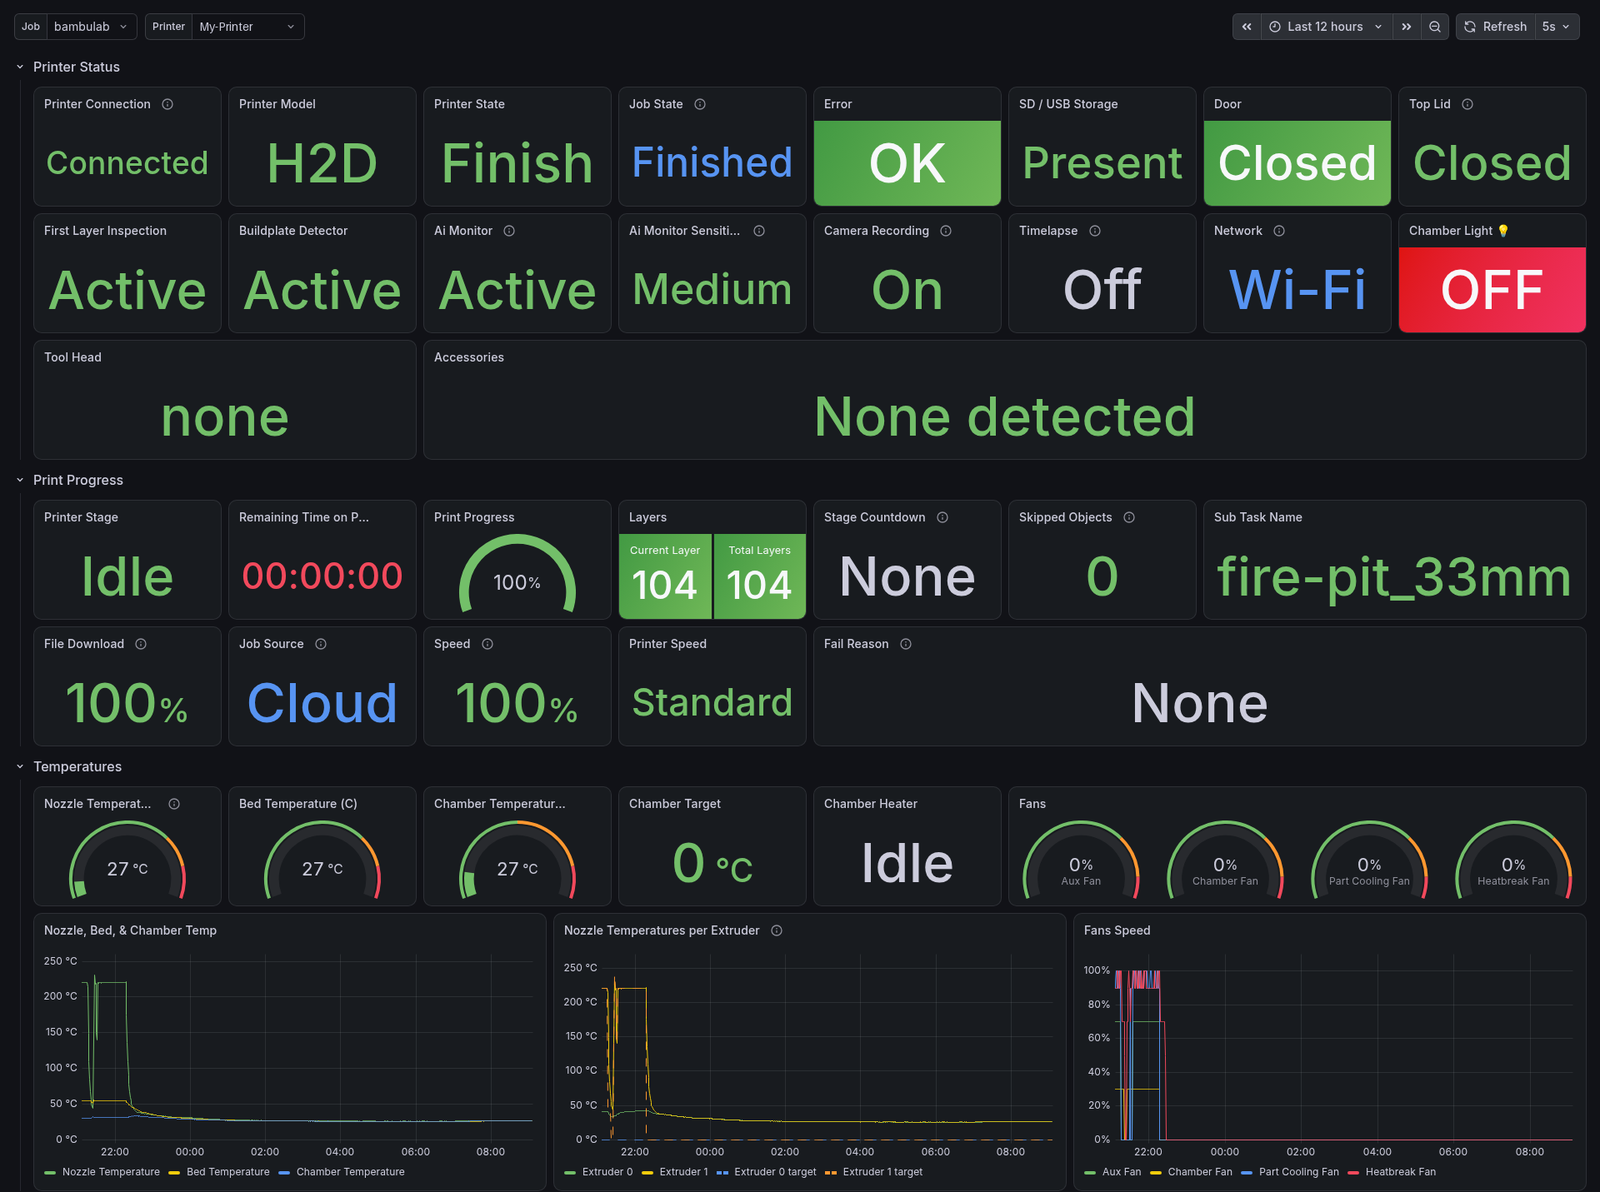
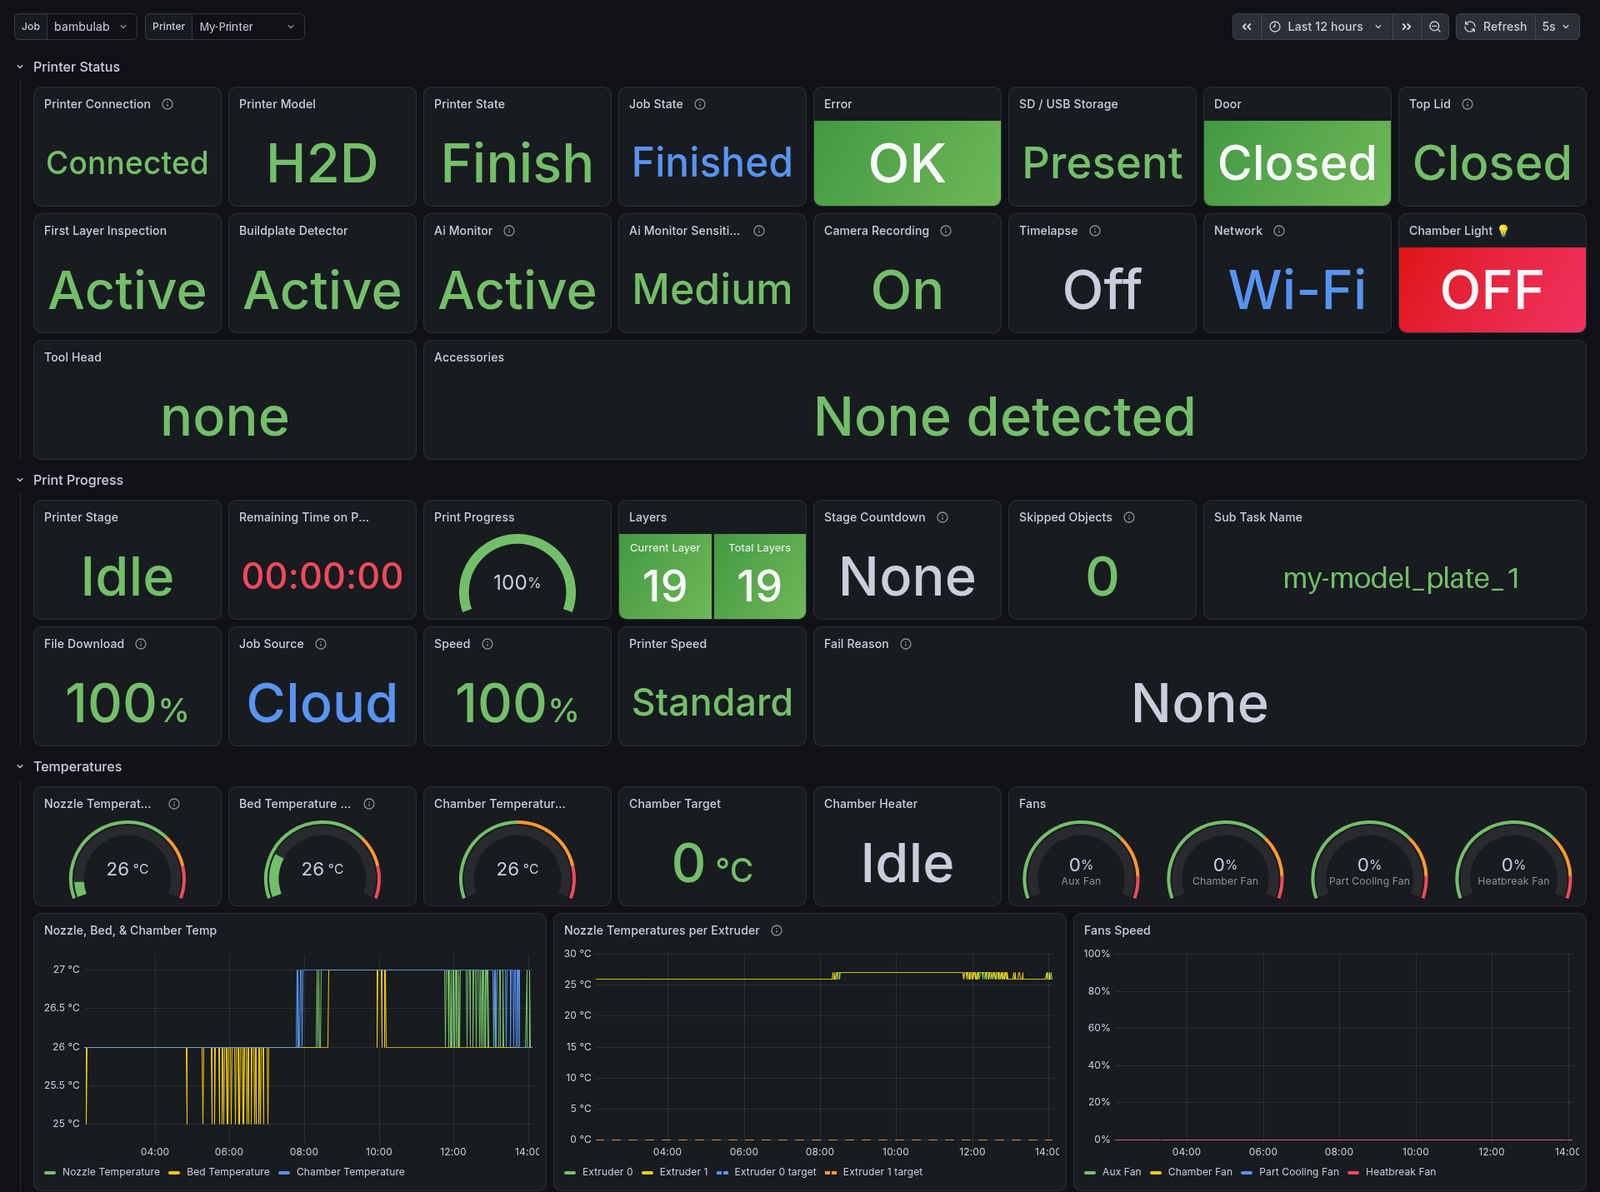
docs: retake dashboard screenshots with the AMS Zones table

diff --git a/examples/grafana/README.md b/examples/grafana/README.md
@@ -12,7 +12,7 @@ Panels for hardware your printer does not have show a placeholder ("No heater", 
 |---|---|
 | Grafana | Built with 12.4, tested on 13.3 |
 | Prometheus | 2.40+ |
-| [bambulab_metrics_exporter](https://github.com/TheBlackBush/bambulab_metrics_exporter) | 0.3.0+ (older versions leave the newer panels empty) |
+| [bambulab_metrics_exporter](https://github.com/TheBlackBush/bambulab_metrics_exporter) | 0.4.0+ (older versions leave the newer panels empty) |
 | Business Text plugin (`marcusolsson-dynamictext-panel`) | 6.x |
 
 ### Business Text plugin (AMS inventory panel)
@@ -119,7 +119,7 @@ Nozzle, bed and chamber gauges, chamber target and heater state (X1E, X2D, H2 se
 An Extruder Status table with one row per extruder: filament change step, feed direction, filament sensor, loaded AMS slot, nozzle type and diameter, nozzle fitted, filament in the buffer. Plus the active nozzle (left or right) on dual-nozzle printers, its type and diameter, nozzle print time and wear.
 
 ### AMS
-AMS model, AMS status, auto refill, tangle detection setting, spools per unit, dryer state, the **AMS filament inventory** (Business Text spool cards for every AMS unit plus the external spool), AMS temperature and humidity, and drying status for AMS 2 Pro and AMS HT units: time left, target, phase, set duration and why drying cannot start.
+AMS model, AMS status, auto refill, tangle detection setting, spools per unit, dryer state, the **AMS filament inventory** (Business Text spool cards for every AMS unit plus the external spool), AMS temperature and humidity, drying status for AMS 2 Pro and AMS HT units (time left, target, phase, set duration and why drying cannot start), and an AMS Zones table with humidity, temperature and drying per zone for the AMS 3H on the H3C.
 
 ### Airduct, Lights & Storage
 Airduct mode and per-fan speeds (P2S, X2D, H2 series), light states, and timelapse storage.

diff --git a/CHANGELOG.md b/CHANGELOG.md
@@ -24,6 +24,8 @@ All notable changes to this project are documented in this file.
   do not change.
 - Grafana: an AMS Zones table under the AMS row shows humidity, temperature and drying per zone
   for the AMS 3H. Re-import the sample dashboard to get it.
+- Grafana screenshots in `examples/grafana/images/` (also used by the README) are retaken and
+  show the AMS Zones table; the Grafana.com README mentions it and needs exporter 0.4.0+.
 
 ### Changed
 - Pull request checks now also run strict mypy, as release builds already did.
